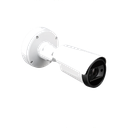
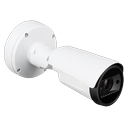
fix(satellite): 枪机图标重抠——泛洪抠图掏空了白色机身与底盘
用户反馈枪机图片有问题:8 月沿边 BFS 去棋盘格时,白色机身/安装底盘与浅色
格子同色,被泛洪掏出洞(深色底上透底)。与 ANPR 同法改用 macOS Vision 主体
抠图重切 枪机.png,规格化 128px 覆盖 assets/pin_icons/bullet.png。雷达为深色
机身,原抠图无洞,不动。

Claude-Session: https://claude.ai/code/session_01HKeiJvtC1kmp6TuLZfz7LL

diff --git a/grid_app/lib/fill/pin_icons.dart b/grid_app/lib/fill/pin_icons.dart
@@ -5,10 +5,11 @@ import 'package:flutter/material.dart';
 /// only add. Unknown keys (from a newer peer) fall back to the classic pin.
 ///
 /// 'pin' (neutral default) is a Material icon; 'ptz'/'bullet'/'radar'/'anpr'
-/// are real product photos (user-provided PNGs; bullet/radar de-checkerboarded
-/// by edge flood-fill 2026-08-29; anpr — a white housing on a light checker,
-/// which flood-fill hollowed out — cut out with macOS Vision subject lifting
-/// 2026-09-20, replacing the earlier line-drawn glyph the user found
+/// are real product photos (user-provided PNGs on a baked-in checkerboard).
+/// radar was de-checkerboarded by edge flood-fill (2026-08-29); the white
+/// bullet and anpr housings share the light checker's colour, so flood-fill
+/// hollowed them out — both are cut out with macOS Vision subject lifting
+/// instead (2026-09-20; anpr replaced a line-drawn glyph the user found
 /// "see-through"). All are upright — heading is applied by the caller via
 /// Transform.rotate.
 const pinIconKeys = ['pin', 'bullet', 'ptz', 'anpr', 'radar'];
